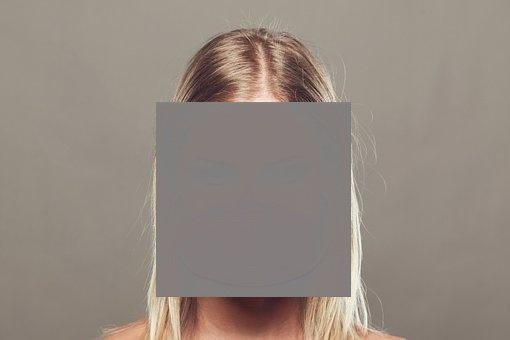
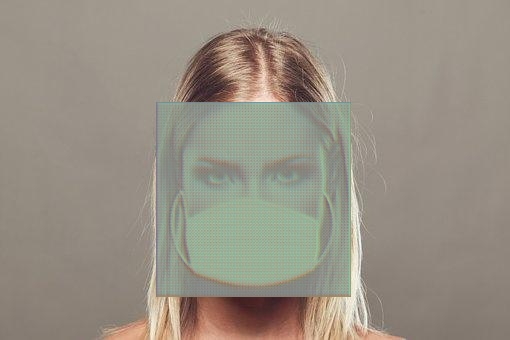
changed Dataset

Changed region(s): [[0.2941, 0.2941, 0.7059, 0.8824]]

diff --git a/facemask.py b/facemask.py
@@ -16,6 +16,7 @@ from tkinter import filedialog, messagebox, ttk
 from PIL import ImageTk
 import threading
 import glob
+from sklearn.model_selection import train_test_split
 
 # Enable mixed precision training for faster performance
 policy = Policy('mixed_float16')
@@ -83,36 +84,73 @@ def build_mask_removal_model(input_shape=(256, 256, 3)):
     return model
 
 class DataGenerator:
-    """Optimized class to prepare and load training data"""
+    """Optimized class to prepare and load training data from single images containing both masked and unmasked faces"""
     
-    def __init__(self, data_dir, batch_size=8, img_size=(256, 256), validation_split=0.2):
+    def __init__(self, data_dir="masked_unmasked", batch_size=8, img_size=(256, 256), validation_split=0.2):
         self.data_dir = data_dir
         self.batch_size = batch_size
         self.img_size = img_size
         self.validation_split = validation_split
-        self.masked_dir = os.path.join(data_dir, 'masked')
-        self.unmasked_dir = os.path.join(data_dir, 'unmasked')
         
     def validate_data(self):
-        """Verify that the data directory structure is correct"""
-        if not os.path.exists(self.masked_dir):
-            raise ValueError(f"Masked images directory not found: {self.masked_dir}")
-        if not os.path.exists(self.unmasked_dir):
-            raise ValueError(f"Unmasked images directory not found: {self.unmasked_dir}")
-            
-        masked_files = glob.glob(os.path.join(self.masked_dir, '**', '*.[jJpP][pPnN][gG]'), recursive=True)
-        unmasked_files = glob.glob(os.path.join(self.unmasked_dir, '**', '*.[jJpP][pPnN][gG]'), recursive=True)
+        """Verify that the data directory contains valid images"""
+        image_files = glob.glob(os.path.join(self.data_dir, '*.[jJpP][pPnN][gG]'))  # Look directly in masked_unmasked
         
-        if len(masked_files) == 0:
-            raise ValueError(f"No image files found in masked directory: {self.masked_dir}")
-        if len(unmasked_files) == 0:
-            raise ValueError(f"No image files found in unmasked directory: {self.unmasked_dir}")
+        if len(image_files) == 0:
+            raise ValueError(f"No image files found in directory: {self.data_dir}")
             
-        print(f"Found {len(masked_files)} masked images and {len(unmasked_files)} unmasked images")
+        print(f"Found {len(image_files)} images")
         return True
         
+    def detect_and_extract_faces(self, image_path):
+        """Detect and extract both masked and unmasked faces from a single image"""
+        try:
+            # Load image
+            img = cv2.imread(image_path)
+            if img is None:
+                print(f"Could not read image: {image_path}")
+                return None, None
+            
+            # Convert to grayscale for face detection
+            gray = cv2.cvtColor(img, cv2.COLOR_BGR2GRAY)
+            
+            # Detect faces
+            face_cascade = cv2.CascadeClassifier(cv2.data.haarcascades + 'haarcascade_frontalface_default.xml')
+            faces = face_cascade.detectMultiScale(gray, scaleFactor=1.1, minNeighbors=4, minSize=(100, 100))
+            
+            if len(faces) < 2:
+                print(f"Could not find at least 2 faces in image: {image_path}")
+                return None, None
+                
+            # Sort faces by x-coordinate (assuming left is masked, right is unmasked)
+            faces = sorted(faces, key=lambda x: x[0])
+            
+            # Extract first face (assumed to be masked)
+            x1, y1, w1, h1 = faces[0]
+            masked_face = img[y1:y1+h1, x1:x1+w1]
+            
+            # Extract second face (assumed to be unmasked)
+            x2, y2, w2, h2 = faces[1]
+            unmasked_face = img[y2:y2+h2, x2:x2+w2]
+            
+            # Resize both faces to target size
+            masked_face = cv2.resize(masked_face, self.img_size)
+            unmasked_face = cv2.resize(unmasked_face, self.img_size)
+            
+            return masked_face, unmasked_face
+            
+        except Exception as e:
+            print(f"Error processing image {image_path}: {e}")
+            return None, None
+    
     def create_generators(self):
         """Create optimized data generators for training with validation split"""
+        # Get all image files
+        image_files = glob.glob(os.path.join(self.data_dir, '*.[jJpP][pPnN][gG]'))  # Look directly in masked_unmasked
+        
+        # Split into train and validation sets
+        train_files, val_files = train_test_split(image_files, test_size=self.validation_split, random_state=42)
+        
         # Data augmentation config
         data_gen_args = dict(
             rescale=1./255,
@@ -124,59 +162,55 @@ class DataGenerator:
             fill_mode='nearest'
         )
         
-        # Create image generators with validation split
-        seed = 42
-        masked_gen = ImageDataGenerator(**data_gen_args, validation_split=self.validation_split)
-        unmasked_gen = ImageDataGenerator(**data_gen_args, validation_split=self.validation_split)
+        # Custom generator that yields pairs of masked/unmasked faces
+        def pair_generator(image_files, batch_size, augment=False):
+            while True:
+                # Shuffle files at start of each epoch
+                np.random.shuffle(image_files)
+                
+                for i in range(0, len(image_files), batch_size):
+                    batch_files = image_files[i:i+batch_size]
+                    masked_batch = []
+                    unmasked_batch = []
+                    
+                    for file_path in batch_files:
+                        masked, unmasked = self.detect_and_extract_faces(file_path)
+                        if masked is not None and unmasked is not None:
+                            masked_batch.append(masked)
+                            unmasked_batch.append(unmasked)
+                    
+                    if len(masked_batch) == 0:
+                        continue
+                        
+                    masked_batch = np.array(masked_batch, dtype=np.float32) / 255.0
+                    unmasked_batch = np.array(unmasked_batch, dtype=np.float32) / 255.0
+                    
+                    if augment:
+                        # Apply the same augmentation to both masked and unmasked faces
+                        seed = np.random.randint(99999)
+                        
+                        # Create temporary generator for augmentation
+                        temp_gen = ImageDataGenerator(**data_gen_args)
+                        
+                        # Apply same transformation to both
+                        masked_aug = temp_gen.flow(masked_batch, batch_size=len(masked_batch), 
+                                                  shuffle=False, seed=seed)
+                        unmasked_aug = temp_gen.flow(unmasked_batch, batch_size=len(unmasked_batch), 
+                                                    shuffle=False, seed=seed)
+                        
+                        yield next(masked_aug), next(unmasked_aug)
+                    else:
+                        yield masked_batch, unmasked_batch
         
-        # Create training generators
-        masked_train = masked_gen.flow_from_directory(
-            self.masked_dir,
-            target_size=self.img_size,
-            batch_size=self.batch_size,
-            class_mode=None,
-            seed=seed,
-            subset='training'
-        )
-        
-        unmasked_train = unmasked_gen.flow_from_directory(
-            self.unmasked_dir,
-            target_size=self.img_size,
-            batch_size=self.batch_size,
-            class_mode=None,
-            seed=seed,
-            subset='training'
-        )
-        
-        # Create validation generators
-        masked_val = masked_gen.flow_from_directory(
-            self.masked_dir,
-            target_size=self.img_size,
-            batch_size=self.batch_size,
-            class_mode=None,
-            seed=seed,
-            subset='validation'
-        )
-        
-        unmasked_val = unmasked_gen.flow_from_directory(
-            self.unmasked_dir,
-            target_size=self.img_size,
-            batch_size=self.batch_size,
-            class_mode=None,
-            seed=seed,
-            subset='validation'
-        )
-        
-        # Combine generators
-        train_generator = zip(masked_train, unmasked_train)
-        val_generator = zip(masked_val, unmasked_val)
+        # Create generators
+        train_gen = pair_generator(train_files, self.batch_size, augment=True)
+        val_gen = pair_generator(val_files, self.batch_size, augment=False)
         
         # Calculate steps
-        masked_count = len(glob.glob(os.path.join(self.masked_dir, '**', '*.[jJpP][pPnN][gG]'), recursive=True))
-        train_steps = int(masked_count * (1 - self.validation_split)) // self.batch_size
-        val_steps = int(masked_count * self.validation_split) // self.batch_size
+        train_steps = max(1, len(train_files) // self.batch_size)
+        val_steps = max(1, len(val_files) // self.batch_size)
         
-        return train_generator, val_generator, train_steps, val_steps
+        return train_gen, val_gen, train_steps, val_steps
 
 class MaskRemover:
     def __init__(self, model_path=None):
@@ -222,7 +256,7 @@ class MaskRemover:
         
         result_img = img.copy()
         gray = cv2.cvtColor(img, cv2.COLOR_BGR2GRAY)
-        faces = self.face_cascade.detectMultiScale(gray, scaleFactor=1.1, minNeighbors=4)
+        faces = self.face_cascade.detectMultiScale(gray, scaleFactor=1.1, minNeighbors=4, minSize=(100, 100))
         
         if len(faces) == 0:
             print("No faces detected in the image.")
@@ -250,7 +284,7 @@ class MaskRemover:
         
         return result_img, unmasked_faces
         
-    def train(self, data_dir, epochs=50, batch_size=8, callbacks=None):
+    def train(self, data_dir="masked_unmasked", epochs=50, batch_size=8, callbacks=None):
         """Train the mask removal model with validation."""
         data_generator = DataGenerator(data_dir, batch_size=batch_size)
         data_generator.validate_data()
@@ -481,7 +515,7 @@ class MaskRemovalApp:
         
         tk.Label(dir_frame, text="Dataset Directory:").pack(side=tk.LEFT)
         
-        self.dataset_path = tk.StringVar()
+        self.dataset_path = tk.StringVar(value="masked_unmasked")
         dataset_entry = tk.Entry(dir_frame, textvariable=self.dataset_path, width=25)
         dataset_entry.pack(side=tk.LEFT, fill=tk.X, expand=True, padx=5)
         
@@ -503,7 +537,7 @@ class MaskRemovalApp:
         tk.Spinbox(params_frame, from_=1, to=32, textvariable=self.batch_size_var, width=5).grid(row=0, column=3, sticky='w', padx=5, pady=5)
         
         # Note about data organization
-        note_text = "Note: Dataset must contain 'masked' and 'unmasked' subdirectories\nwith corresponding paired images."
+        note_text = "Note: Dataset should contain images with both masked\nand unmasked faces of the same person."
         tk.Label(train_dialog, text=note_text, fg="blue").pack(pady=10)
         
         # Buttons
@@ -536,13 +570,13 @@ class MaskRemovalApp:
         
         # Validate dataset structure
         try:
-            masked_dir = os.path.join(data_dir, 'masked')
-            unmasked_dir = os.path.join(data_dir, 'unmasked')
-            
-            if not os.path.exists(masked_dir) or not os.path.exists(unmasked_dir):
-                messagebox.showerror("Error", 
-                    "Invalid dataset structure.\nRequired structure:\n"
-                    f"{data_dir}/\n├── masked/\n└── unmasked/")
+            if not os.path.exists(data_dir):
+                messagebox.showerror("Error", f"Directory does not exist: {data_dir}")
+                return
+                
+            image_files = glob.glob(os.path.join(data_dir, '*.[jJpP][pPnN][gG]'))
+            if len(image_files) == 0:
+                messagebox.showerror("Error", f"No images found in directory: {data_dir}")
                 return
         except Exception as e:
             messagebox.showerror("Error", f"Error validating dataset: {e}")
